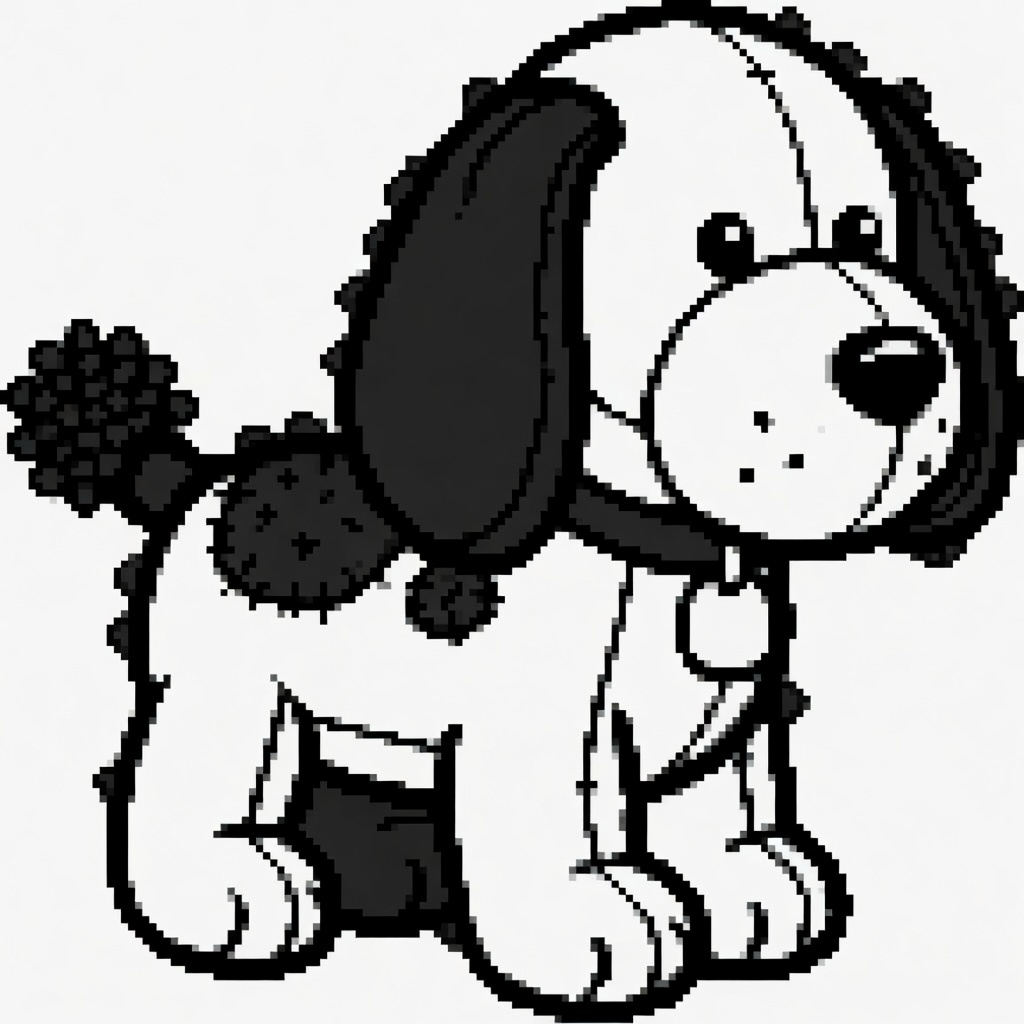
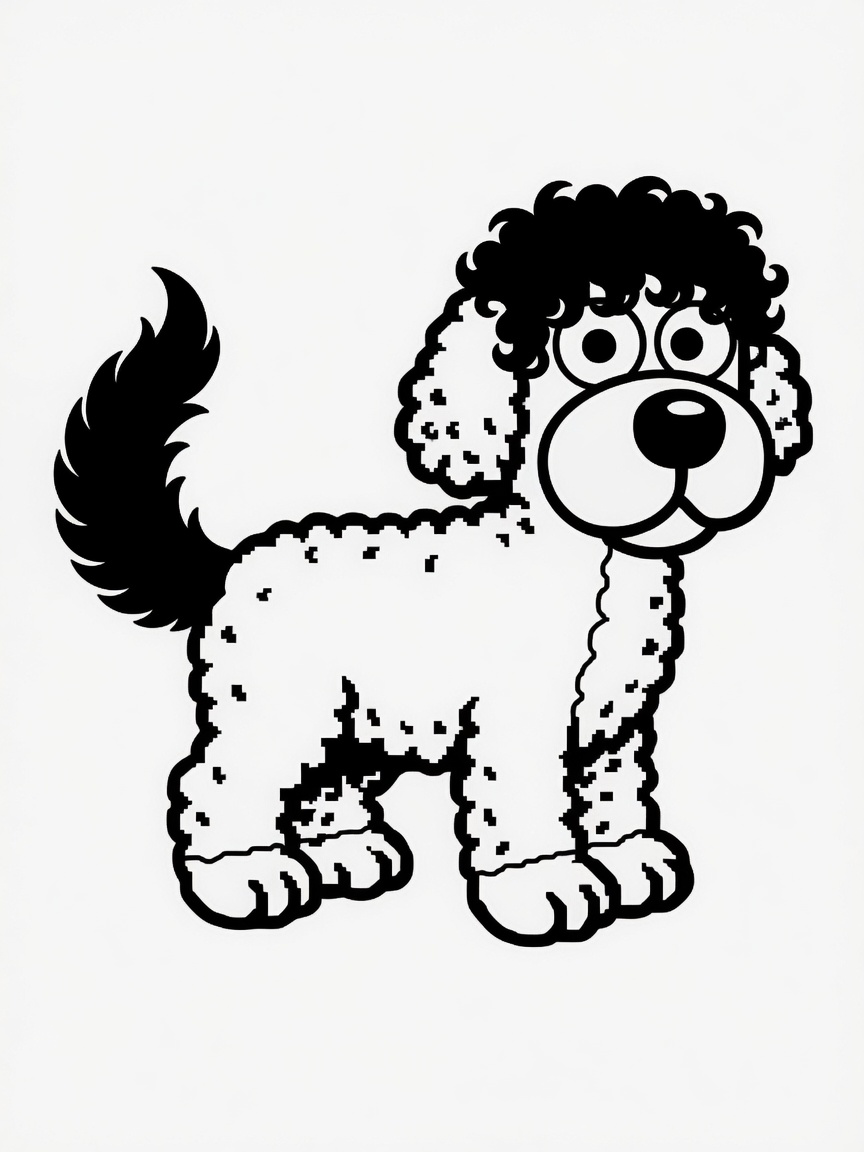
docs: lock Momo concept stills to the photo references (#25)
Replace the spaniel lock with this apricot doodle. Imagine prompts
now image_edit from reference/momo/; stills are edit-chained from
those photos.

diff --git a/docs/art/concept/README.md b/docs/art/concept/README.md
@@ -1,22 +1,20 @@
 # Concept stills
 
-Style-anchor frames for [art-direction.md](../../art-direction.md). Direction locks, not engine sprites.
+Style-anchor frames for [art-direction.md](../../art-direction.md). Direction locks, not engine sprites. Momo is edit-chained from [`reference/momo/`](../../../reference/momo/).
 
 | File | Lock |
 | --- | --- |
-| `momo-side.png` | Canonical Momo |
-| `momo-squat.png` | Squat silhouette |
+| `momo-side.png` | Canonical Momo (from `off leash` + `sitting`) |
+| `momo-squat.png` | Squat silhouette (from `squatting`) |
 | `momo-sniff.png` | Sniff silhouette |
 | `walk-slice.png` | Block + walker + leash |
 | `gnome-bumper.png` | Gnome end-card picture (punchline is type, not pixels) |
-
-Prompts are verbatim in the bible. Re-run with `image_edit` from `momo-side.png` if identity drifts.
 
 ## Known defects (honest QA)
 
 These are Imagine drafts. Engine art must FatBits-clean them.
 
-- All stills have light grey anti-alias. Illegal in-game; keep the *shapes*.
-- `walk-slice.png` still has grey house fills and too much perspective. Hydrant, windbreaker, three-band stage, and Momo identity are the lock. Flatten houses in the tile PR.
-- `momo-side.png` reads a bit spaniel. Keep the hanging ears, teddy muzzle, pom-pom, nubs; add doodle fluff when we pixel him.
-- `gnome-bumper.png` Momo is larger than “tiny in the distance.” Gnome face is the lock.
+- Grey anti-alias on outlines. Illegal in-game; keep the *shapes*.
+- `momo-side.png` plume still sits a bit high vs `off leash.jpeg`. Socks, ringlets, bangs, and nose are the lock.
+- `walk-slice.png` walker/houses still carry grey fills. Hydrant, chevron windbreaker, three-band stage, and this Momo are the lock.
+- `gnome-bumper.png` lawn is still tinted and more top-down than side-view. Gnome face + matching doodle are the lock.

diff --git a/reference/README.md b/reference/README.md
@@ -1,0 +1,15 @@
+# References
+
+Photos that lock identity. Not engine art. Do not copy into `source/` (pdc would ship them).
+
+| Path | Lock |
+| --- | --- |
+| `momo/` | The real apricot double-doodle. All Momo sheets and concept stills edit-chain from these. |
+
+Best stills to seed Imagine:
+
+- Side / body: `momo/off leash.jpeg`
+- Face, chest stripe, socks: `momo/sitting.jpeg`
+- Front character: `momo/sitting nice.jpeg`, `momo/walking nice with stick.jpeg`
+- Squat: `momo/squatting.jpeg`
+- Tail from behind: `momo/waiting to play.jpeg`
